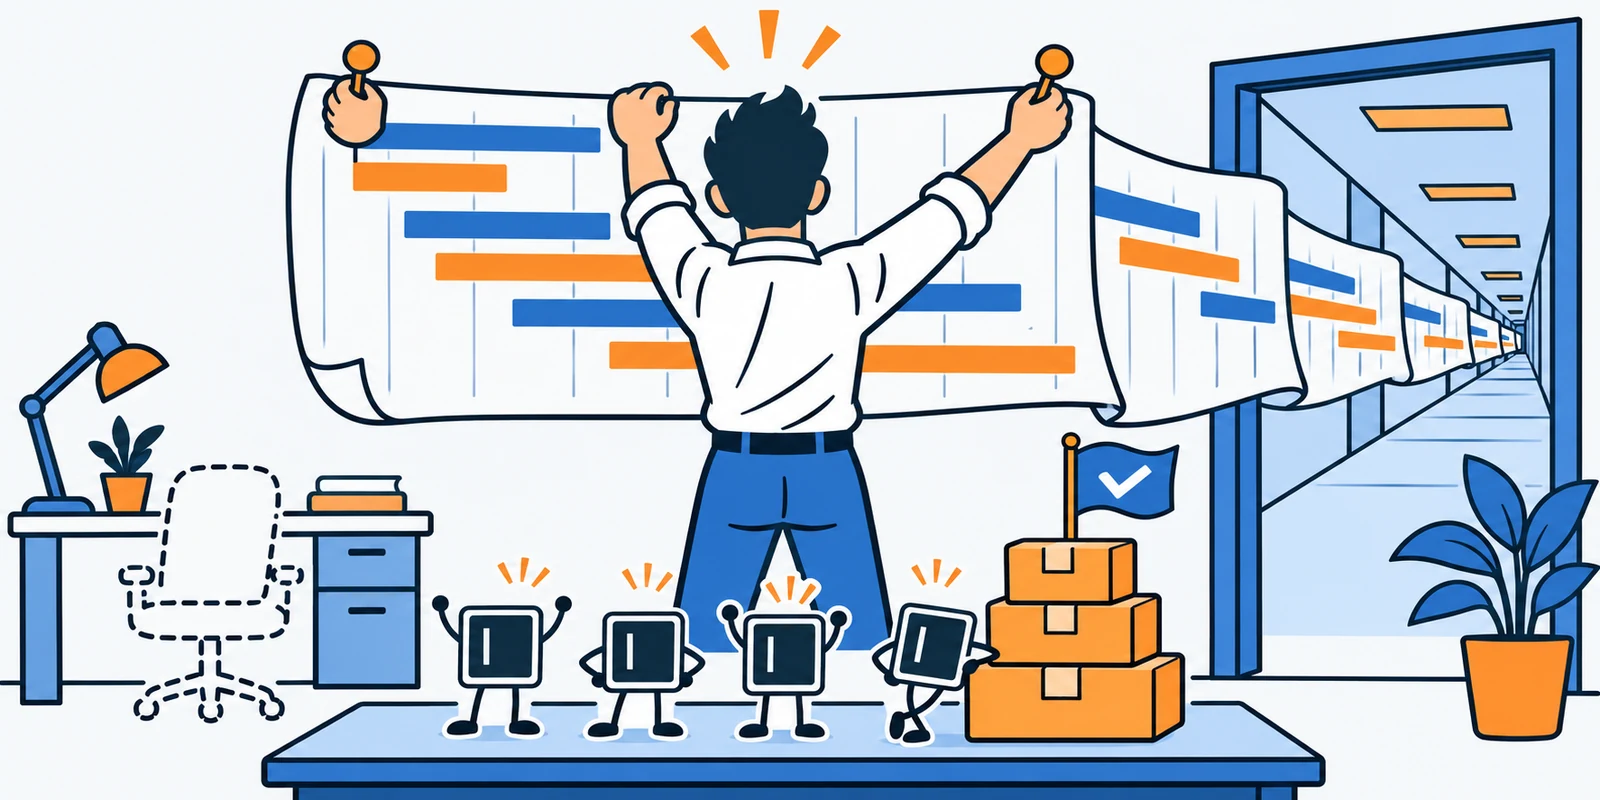
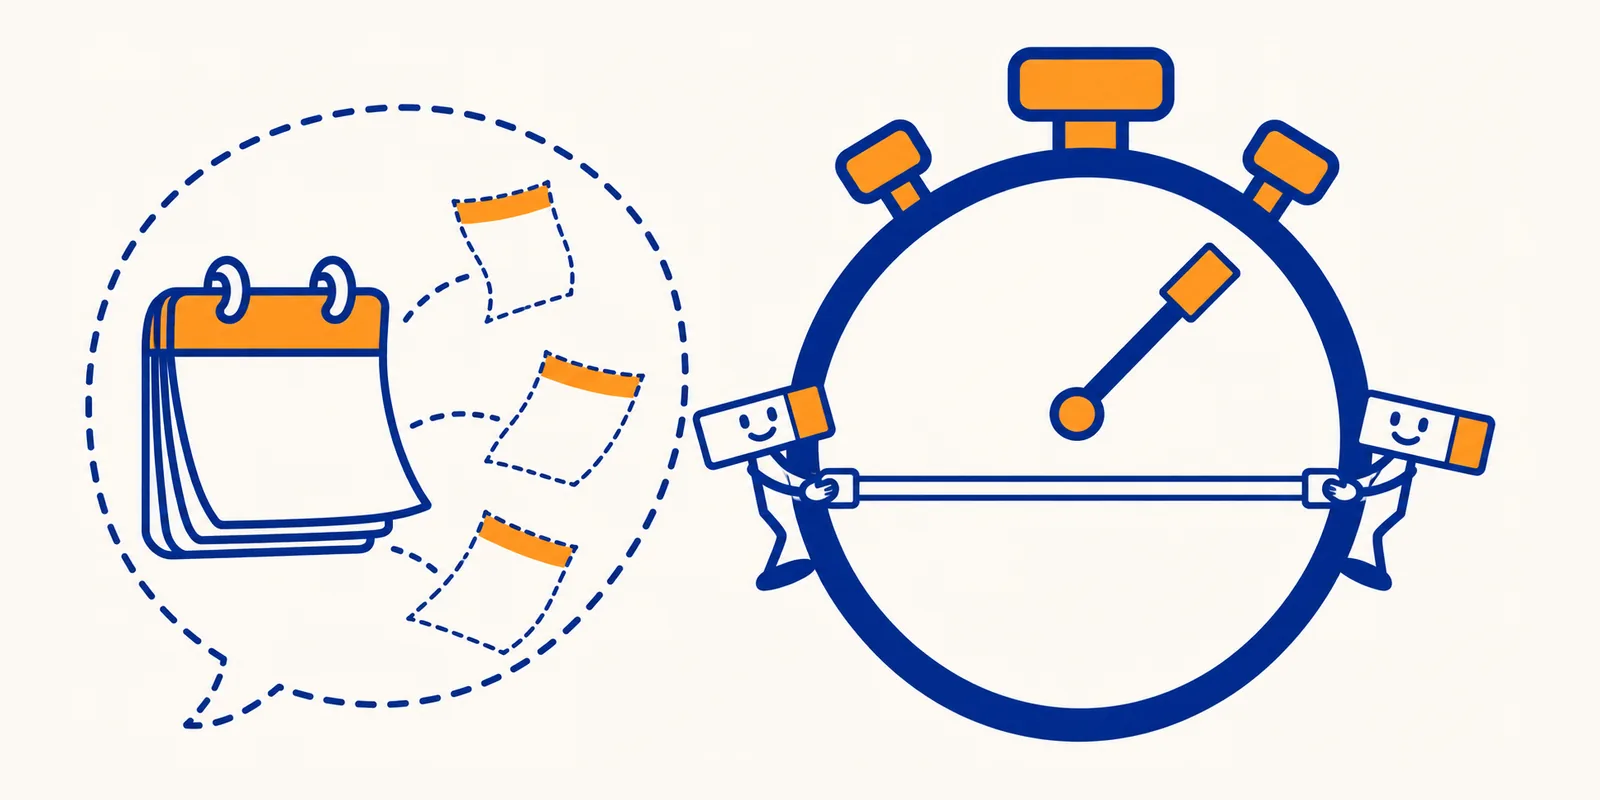
docs: replace the hero with the guess and the stopwatch
The old hero, a Gantt chart running out of an office, read as an office
scene at README width, and its joke needed explaining. The new one is a
single contrast: a dashed, fading speech bubble holding a calendar that
sheds blank pages, beside a solid stopwatch that two small cursor robots
measure with a tape measure. It has no words and no numbers. Generated
with Codex image_generation, then resized and encoded as WebP.

The social preview reuses it under the line "Stop estimating agent work
in human weeks.", and the site gains og:image:alt.

diff --git a/docs/index.html b/docs/index.html
@@ -11,6 +11,7 @@
 <meta property="og:description" content="Measured P50/P80/P90 time ranges for coding-agent work, from real Claude Code and Codex runs, the human part stated apart. Open data, stdlib CLI, agent skill.">
 <meta property="og:url" content="https://mohamedzhioua.github.io/agentpace/">
 <meta property="og:image" content="https://mohamedzhioua.github.io/agentpace/assets/social-preview.png">
+<meta property="og:image:alt" content="A speech bubble, dashed and fading, holds a wall calendar shedding blank pages. Beside it a solid stopwatch, its hand a terminal cursor, is measured by two small cursor robots with a tape measure.">
 <meta name="twitter:card" content="summary_large_image">
 <script type="application/ld+json">
 {
@@ -194,7 +195,7 @@
 
   <main>
     <h1>How long coding agents actually take</h1>
-    <img class="hero" src="assets/hero.webp" width="1600" height="800" decoding="async" alt="An office worker pins up a Gantt chart so long it runs out the door, while a tiny crew of terminal cursors has already stacked finished boxes; a separate review desk with an outlined empty chair waits for the human part.">
+    <img class="hero" src="assets/hero.webp" width="1600" height="800" decoding="async" alt="A speech bubble, dashed and fading, holds a wall calendar shedding blank pages. Beside it a solid stopwatch, its hand a terminal cursor, is measured by two small cursor robots with a tape measure.">
     <p class="lede" id="lede">Measured from 3,383 completed agent runs, not from anyone's opinion. Half finished within 2 min. One in ten took more than 20 min.</p>
     <p class="lede">Ask an assistant how long a feature will take and it answers in human-team time. agentpace answers from measured agent runs instead: P50, P80 and P90 for your own plan of tasks, with the human part stated on its own line. Logging your own runs works with Claude Code subagents and Codex today.</p>
 

diff --git a/README.md b/README.md
@@ -2,7 +2,7 @@
 
 **Stop estimating agent work in human weeks. agentpace measures how long coding agents actually take: a P50/P80/P90 range from real runs, with the human part stated apart, never derived.**
 
-![An office worker pins up a Gantt chart so long it runs out the door, while a tiny crew of terminal cursors has already stacked finished boxes; a separate review desk with an outlined empty chair waits for the human part.](docs/assets/hero.webp)
+![A speech bubble, dashed and fading, holds a wall calendar shedding blank pages. Beside it a solid stopwatch, its hand a terminal cursor, is measured by two small cursor robots with a tape measure.](docs/assets/hero.webp)
 
 [![CI](https://github.com/mohamedzhioua/agentpace/actions/workflows/ci.yml/badge.svg)](https://github.com/mohamedzhioua/agentpace/actions/workflows/ci.yml)
 ![Python 3.10+](https://img.shields.io/badge/python-3.10%2B-blue)

diff --git a/CHANGELOG.md b/CHANGELOG.md
@@ -6,6 +6,8 @@ This project follows [Keep a Changelog](https://keepachangelog.com/en/1.1.0/) an
 
 ### Changed
 
+- A new hero illustration, "the guess and the stopwatch": a dashed, fading speech bubble holds a calendar shedding blank pages, and beside it two small cursor robots measure a solid stopwatch with a tape measure. The old one, a Gantt chart running out of an office, read as an office scene at README width. It has no words and no numbers. It was generated with Codex image generation, then resized and encoded as WebP. The social preview reuses it under the line "Stop estimating agent work in human weeks.", and the site gains `og:image:alt`.
+
 - The README opens with what agentpace is for: "Stop estimating agent work in human weeks." Try it now comes straight after the badges. The problem statement moved under its own heading, below the example output.
 
 ### Added
